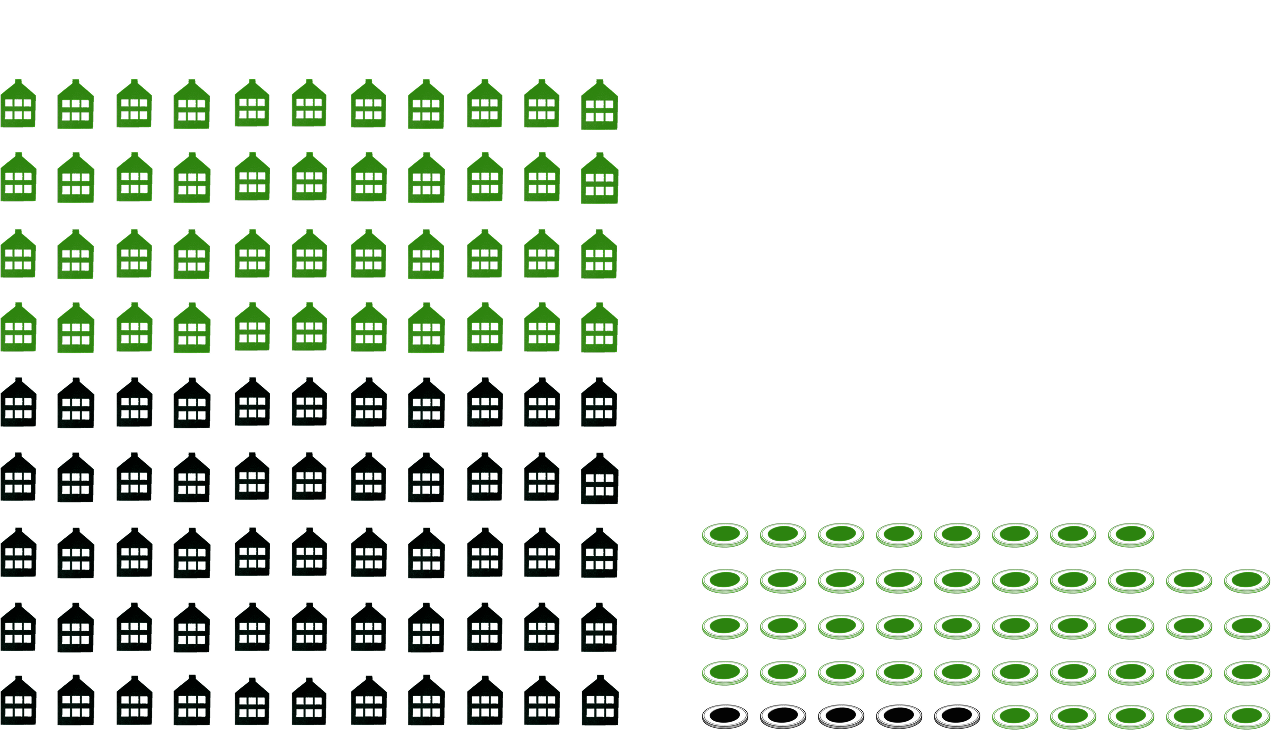
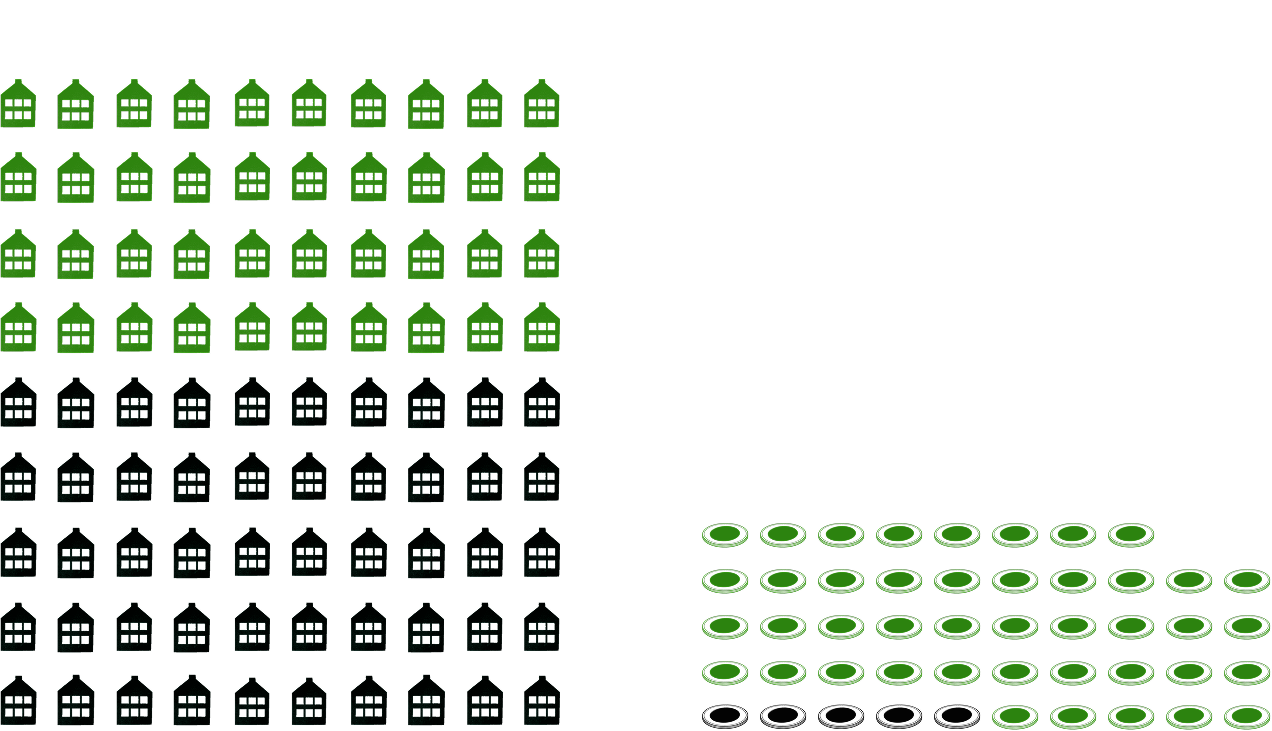
Verkleinerte Grafik Vermögensvergleich entfernt; Grafik korrigiert

diff --git a/neurath.html b/neurath.html
@@ -53,10 +53,10 @@ ul.task-list li input[type="checkbox"] {
       <!-- user-provided yaml closeread style options -->
       <style>
         :root {
-          --cr-narrative-border-radius: 5px;
---cr-narrative-font-family: Jost;
---cr-narrative-text-color-overlay: black;
+          --cr-narrative-font-family: Jost;
 --cr-section-background-color: #F1F1F1;
+--cr-narrative-text-color-overlay: black;
+--cr-narrative-border-radius: 5px;
 --cr-narrative-background-color-overlay: #FFFFFFF2;
         }
       </style>
@@ -152,7 +152,7 @@ ul.task-list li input[type="checkbox"] {
 </div>
 </div>
 </div>
-<p><br><br><br><br> In dieser Grafik vergleichen wir…</p>
+<p><br><br><br><br> Als nächstes vergleichen wir…</p>
 <p>- das mittlere Vermögen der <em>unteren Hälfte</em> der Haushalte<br> - das mittlere Vermögen <em>aller Haushalte</em> und<br> - das durchschnittliche Vermögen des <em>obersten Prozents</em>.<br></p>
 <p>Mit dem mittleren Vermögen ist das Vermögen jenes Haushalts gemeint, der sich – nachdem alle Haushalte nach ihrem Vermögen sortiert wurden – genau in der Mitte befindet. <br><br><br></p>
 <div class="cr-section cr-column-screen overlay-center">
@@ -186,18 +186,8 @@ ul.task-list li input[type="checkbox"] {
 </div>
 </div>
 </div>
-<div style="width: fit-content; margin: 2vh auto;">
-<p>
-Also noch einmal auf einer (Computer-Monitor-)Bildschirmseite:
-</p>
-</div>
-<div style="width: fit-content; margin: 5px auto;">
-<p>
-<img src="media/vermoegen-vergleich-1.png" height="800">
-</p>
-</div>
-<section id="wie-teilt-sich-das-vermögen-unter-den-haushalten-in-österreich-auf" class="level2">
-<h2 class="anchored" data-anchor-id="wie-teilt-sich-das-vermögen-unter-den-haushalten-in-österreich-auf">Wie teilt sich das Vermögen unter den Haushalten in Österreich auf?</h2>
+<section id="wie-teilt-sich-das-vermögen-der-privaten-haushalte-in-österreich-auf" class="level2">
+<h2 class="anchored" data-anchor-id="wie-teilt-sich-das-vermögen-der-privaten-haushalte-in-österreich-auf">Wie teilt sich das Vermögen der privaten Haushalte in Österreich auf?</h2>
 <div class="cr-section cr-column-screen overlay-center">
 <div class="narrative-col">
 <div class="trigger new-trigger" data-focus-on="cr-haushalte-vermoegen-start">
